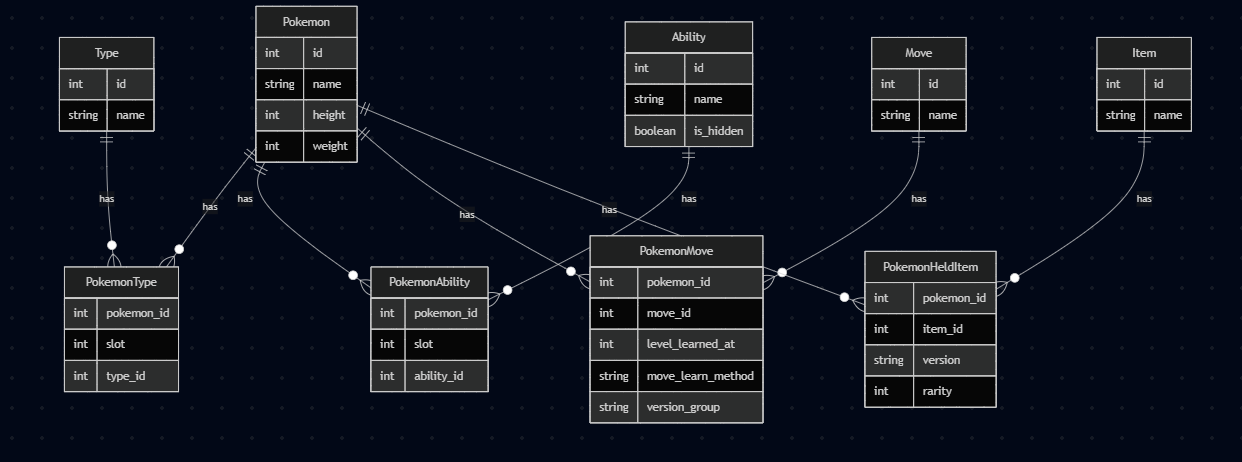
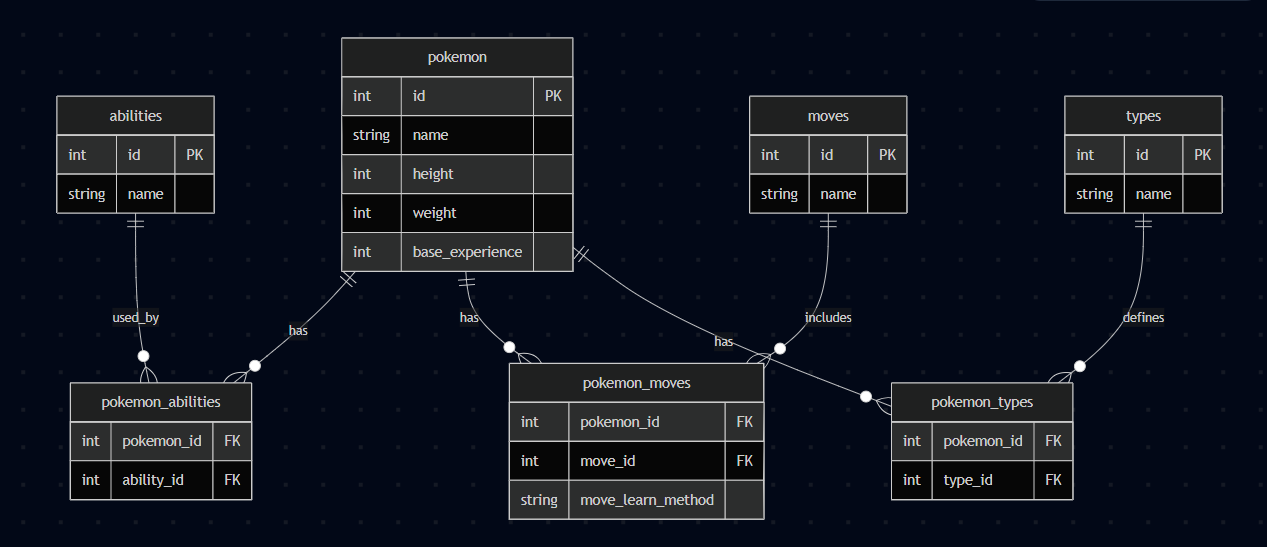
remade erd to simplify, refactored code to remove sets, still working on auto incrementing id's

diff --git a/pokemon.py b/pokemon.py
@@ -26,56 +26,78 @@ def fetch_multiple_pokemon(n=10):
 
 # Clean Raw JSON for Pokemon Table
 def clean_for_pokemon_table(raw_data):
-    return {
-        'id': raw_data['id'],
-        'name': raw_data['name'],
-        'height': raw_data['height'],
-        'weight': raw_data['weight']
-    }
+    pokemon_cleaned = []
+    for pokemon in raw_data:
+        pokemon_cleaned.append({
+            'id': pokemon['id'],
+            'name': pokemon['name'],
+            'height': pokemon['height'],
+            'weight': pokemon['weight']
+        })
+    df_pokemon = pd.DataFrame(pokemon_cleaned)
+    return df_pokemon
 
 # Clean Raw JSON for Type Tables
 def clean_for_type_table(raw_data):
-    type_set = set()
+    type_names = []
     pokemon_types = []
     for pokemon in raw_data:
         pokemon_id = pokemon['id']
         for type in pokemon['types']:
             type_name = type['type']['name']
-            type_url = type['type']['url']
-            type_id = int(type_url.strip("/").split("/")[-1])
-            slot = type['slot']
-            type_set.add((type_id, type_name))
+            type_names.append({'name': type_name})
             pokemon_types.append({
                 'pokemon_id': pokemon_id,
-                'type_id': type_id,
-                'slot': slot
+                'type_id': type_name
             })
-    df_type = pd.DataFrame(type_set, columns=['id', 'name']).sort_values('id')
+    df_type = pd.DataFrame(type_names).drop_duplicates().sort_values('name')
     df_pokemon_type = pd.DataFrame(pokemon_types)
     return df_type, df_pokemon_type
 
 # Clean Raw JSON for Abilities Tables
 def clean_for_abilities_tables(raw_data):
-    ability_set = set()
+    ability_names = []
     pokemon_abilities = []
     for pokemon in raw_data:
         pokemon_id = pokemon['id']
         for ability in pokemon['abilities']:
             ability_name = ability['ability']['name']
-            ability_url = ability['ability']['url']
-            ability_id = int(ability_url.strip("/").split("/")[-1])
-            slot = ability['slot']
-            is_hidden = ability['is_hidden']
-            ability_set.add((ability_id, ability_name))
+            ability_names.append({'name': ability_name})
             pokemon_abilities.append({
                 'pokemon_id': pokemon_id,
-                'ability_id': ability_id,
-                'slot': slot,
-                'is_hidden': is_hidden
+                'ability_name': ability_name
             })
-    df_ability = pd.DataFrame(ability_set, columns=['id', 'name']).sort_values('id')
+    df_ability = pd.DataFrame(ability_names).drop_duplicates().sort_values('name')
     df_pokemon_ability = pd.DataFrame(pokemon_abilities)
     return df_ability, df_pokemon_ability
+
+# Clean Raw JSON for Moves Tables
+def clean_for_moves_tables(raw_data):
+    move_names = []
+    pokemon_moves = []
+    for pokemon in raw_data:
+        pokemon_id = pokemon['id']
+        for move in pokemon['moves']:
+            move_name = move['move']['name']
+            move_names.append({'name': move_name})
+            methods = set()
+            for version in move['version_group_details']:
+                method = version['move_learn_method']['name']
+                if method not in methods:
+                    methods.add(method)
+                    pokemon_moves.append({
+                        'pokemon_id': pokemon_id,
+                        'move_name': move_name,
+                        'move_learn_method': method,
+                    })
+    df_move = pd.DataFrame(move_names).drop_duplicates().sort_values('name')
+    df_pokemon_move = pd.DataFrame(pokemon_moves)
+    return df_move, df_pokemon_move
+
+# Create Pokemon Table
+def create_pokemon_table(df_pokemon, engine):
+    df_pokemon.to_sql(name='pokemon', con=engine, if_exists='replace', index=False)
+    print('Pokemon Table Created')
 
 # Create Type Tables
 def create_type_tables(df_type, df_pokemon_type, engine):
@@ -87,11 +109,13 @@ def create_type_tables(df_type, df_pokemon_type, engine):
 def create_abilities_tables(df_ability, df_pokemon_ability, engine):
     df_ability.to_sql(name='ability', con=engine, if_exists='replace', index=False)
     df_pokemon_ability.to_sql(name='pokemon_ability', con=engine, if_exists='replace', index=False)
+    print("Abilities Tables Created")
 
-# Create Pokemon DataFrame
-def create_pokemon_dataframe(pokemon_raw_list):
-    cleaned = [clean_for_pokemon_table(p) for p in pokemon_raw_list]
-    return pd.DataFrame(cleaned)
+# Create Moves Tables
+def create_moves_tables(df_move, df_pokemon_move, engine):
+    df_move.to_sql(name='move', con=engine, if_exists='replace', index=False)
+    df_pokemon_move.to_sql(name='pokemon_move', con=engine, if_exists='replace', index=False)
+    print("Moves Tables Created")
 
 # Database Setup
 def setup_database_connection():
@@ -107,7 +131,7 @@ def save_dataframe_to_sql(df, engine, table_name='pokemon'):
 # Query and Print
 def query_and_print_table(engine, table_name='pokemon'):
     with engine.connect() as conn:
-        result = conn.execute(text(f'SELECT * FROM {table_name};'))
+        result = conn.execute(text(f'SELECT TOP 5 * FROM {table_name};'))
         for row in result:
             print(row)
 
@@ -121,21 +145,25 @@ def main():
     # pprint(pokemon_raw_list[0])  # For debugging
 
     # Clean for Pokemon table
-    df_pokemon = create_pokemon_dataframe(pokemon_raw_list)
+    df_pokemon = clean_for_pokemon_table(pokemon_raw_list)
 
     # Clean for types and pokemon_type tables
     df_type, df_pokemon_type = clean_for_type_table(pokemon_raw_list)
 
-    # Clean for ability and pokemon ability table
+    # Clean for ability and pokemon_ability table
     df_ability, df_pokemon_ability = clean_for_abilities_tables(pokemon_raw_list)
+
+    # Clean for move and pokemon_move table
+    df_move, df_pokemon_move = clean_for_moves_tables(pokemon_raw_list)
 
     # DB Connection
     engine = setup_database_connection()
 
     # Save Tables
-    save_dataframe_to_sql(df_pokemon, engine, table_name='pokemon')
+    create_pokemon_table(df_pokemon, engine)
     create_type_tables(df_type, df_pokemon_type, engine)
     create_abilities_tables(df_ability, df_pokemon_ability, engine)
+    create_moves_tables(df_move, df_pokemon_move, engine)
 
     # Query to verify
     query_and_print_table(engine, table_name='pokemon')
@@ -143,20 +171,11 @@ def main():
     query_and_print_table(engine, table_name='pokemon_type')
     query_and_print_table(engine, table_name='ability')
     query_and_print_table(engine, table_name='pokemon_ability')
+    query_and_print_table(engine, table_name='move')
+    query_and_print_table(engine, table_name='pokemon_move')
 
 if __name__ == "__main__":
     main()
 
-
-
-'''
-Order:
-type + pokemon_type=DONE
-abilities + pokemon_abilities	
-moves + pokemon_moves	
-items + pokemon_held_items	
-stats	
-evolution_chain / species
-'''
 
 # Add paulaked as collaborator
